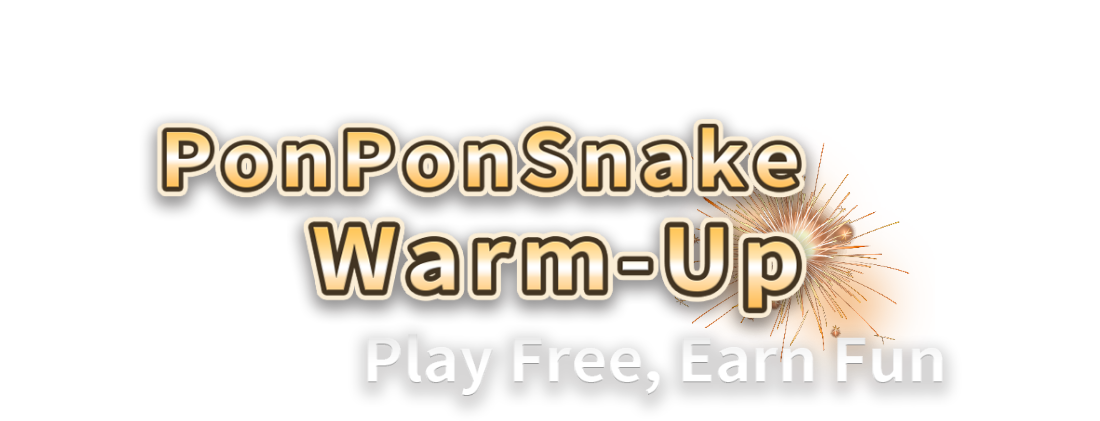
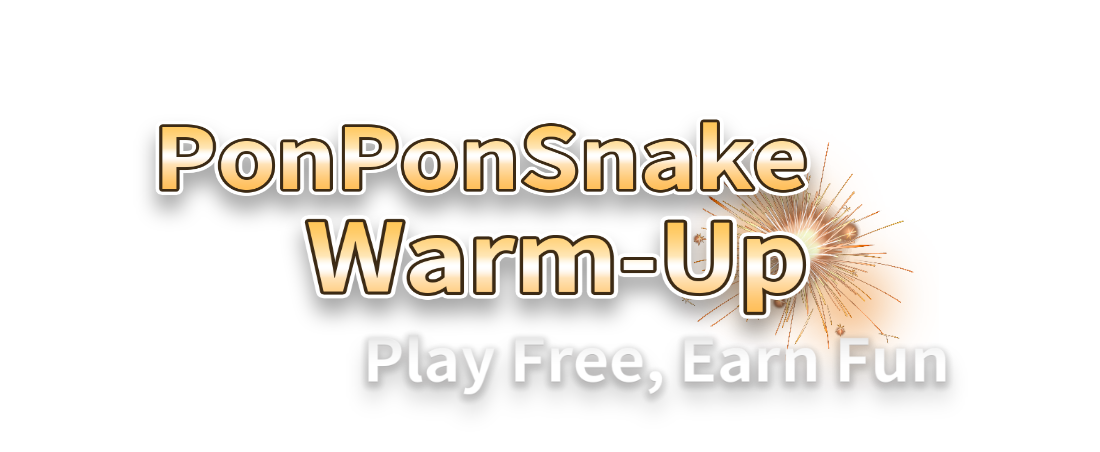
WarmUpActivities 更新 清晰版標題

Changed region(s): [[0.1236, 0.247, 0.8655, 0.9572]]

diff --git a/SnakeAsianLeague/wwwroot/css/SpecialEvent/WarmUpActivities/WarmUpActivities_EventInfo.css b/SnakeAsianLeague/wwwroot/css/SpecialEvent/WarmUpActivities/WarmUpActivities_EventInfo.css
@@ -131,7 +131,7 @@
     max-width: 370px;
     width: 105%;
     top: -2%;
-    left: 38%;
+    left: 40%;
     z-index: 1;
     opacity: 0;
     transform-origin: bottom right;

diff --git a/SnakeAsianLeague/wwwroot/css/SpecialEvent/WarmUpActivities/WarmUpActivities_Banner.css b/SnakeAsianLeague/wwwroot/css/SpecialEvent/WarmUpActivities/WarmUpActivities_Banner.css
@@ -23,6 +23,7 @@
 }
 .WarmUp-BannerTitle img{
     width: 100%;
+    filter: drop-shadow(0px 0px 10px rgba(28, 28, 28, 0.6));
 }
 
 .WarmUp-BannerNav{
